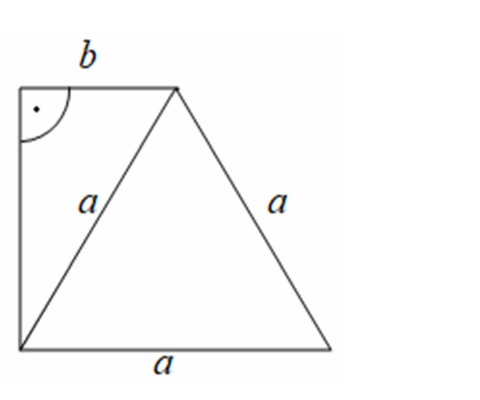
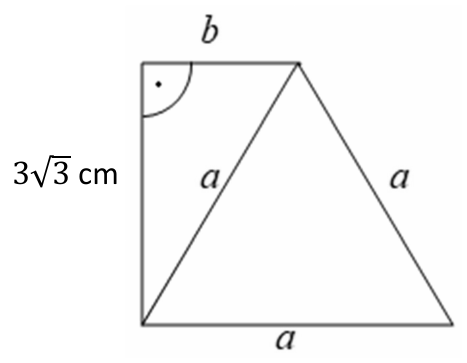
Fix the wojewodzki_2020_podlaskie_q1 crop and redraw it to SVG
The old crop box started too far right and cut off the `3√3 cm` label,
leaving a figure with no numeric data at all — the question could not be
answered from it. Re-cropped 1100 150 480 400 -> 978 175 467 363.

Reaching left far enough for `3√3` necessarily admits a tail of prompt
text, which shares its rows with the `b` label, so no rectangular crop
separates them; that corner is whitened in the PNG instead. This makes
the figure a crop *plus* an edit, the only one in the corpus — re-running
`figcrop.py crop --apply` on it re-renders from the PDF and silently
restores the text. locate() still takes the exact-match path (3.3e-03
against a 1e-2 cutoff).

Adds a redraw while here: match@4px 1.000, figangles clean.

figure-qa-carve.md carries the ten findings this came from, plus two
measuring notes: rawdict char bboxes are font boxes rather than ink and
cannot size a label, and long labels need one <text> per measured column
because Helvetica's advances do not track the scan's font.

diff --git a/figure-qa-carve.md b/figure-qa-carve.md
@@ -1,0 +1,161 @@
+# Figure QA from the carve pass (2026-08-02)
+
+Ten findings, produced as a by-product of the `categories.json` revision 2026-08-02 carve
+(commit `0c9f543`). 68 agents read 395 figure PNGs — 165 of which have an SVG redraw — to
+decide topic leaves for questions whose maths lives in the diagram. The PNG was authoritative
+throughout, so **none of these findings changed a tagging decision**; every one is free
+redraw QA that nobody went looking for.
+
+That provenance matters when triaging: these are not the output of `scripts/figcheck.py`, so
+there is no `match@4px` score behind them. They are things a reader noticed while trying to
+*solve* the question — which is why two of them sit on figures already signed off in
+`redraw-ok.jsonl`. A pixel scorer would not have caught a swapped label; a solver did.
+
+Hashes below open the question in the local browser via `browser/index.html#inc=<hash>`
+(the "Pokaż tylko id" filter). To see a redraw side by side, run
+`python3 scripts/figsheet.py <figure-name>` and open `debug/figure-subset-review.html`.
+
+Sign-off convention, per `FIGURE_REDRAW.md`: accepted redraws go to `redraw-ok.jsonl`,
+revision requests to `redraw-feedback.jsonl` (the review sheet's "copy JSON" button emits
+the box coordinates these findings lack). Nothing here has been written to either file.
+
+---
+
+## 1. Blocking — bad PNG crop, question unsolvable from its figure ✅ FIXED
+
+### `wojewodzki_2020_podlaskie_q1` — hash `fa181098`
+
+`wojewodzki_2020_podlaskie_q1_fig1.png`. An SVG redraw was **added** on top of the crop fix
+(`match@4px 1.000`, ink ratio 0.91, `figangles.py` clean) — see the end of this section.
+
+The crop cut off the `3√3 cm` label on the vertical left side, leaving a figure that carried
+no numeric data at all. The question could not be answered from the cropped image. Verified
+against `pdfs/wojewodzki/2020_podlaskie.pdf` p.2, where the label sits to the left of the
+trapezoid — the crop box simply started too far right.
+
+**Fixed** in two steps:
+
+1. `figcrop.py crop … 978 175 467 363 --apply`, was `1100 150 480 400`. The other three edges
+   were tightened at the same time (the old box had ~150px of dead space on the right).
+2. The new box necessarily dragged in an ~80px tail of prompt text (`va tego`) at top-left, so
+   that rectangle was **whitened in the PNG** (`im[0:62, 0:100] = 255`).
+
+Step 2 was needed because no rectangular crop can separate them. The ink bands on page 2:
+
+| band | y | x |
+|---|---|---|
+| `b` label | 189–218 | 1179–1196 |
+| prompt text `…podstawa tego` | 202–230 | ≤1072 |
+| `3√3 cm` label | 330–362 | **992**–1094 |
+
+Reaching left to x≈992 for `3√3` admits the prompt text, which occupies the same rows as the
+`b` label — so excluding it by cropping means losing `b`, which the question needs. In the
+figure's own coordinates the two are well separated (text y 30–55, label y 155–187), so the
+erase is safe and left the `3√3 cm` label untouched.
+
+⚠ **This figure is now a crop *plus* an edit, the only one in the corpus.** Consequences:
+
+- `locate()` still recovers the box exactly, but the squared-difference score went from
+  9.8e-08 (pixel-identical) to 3.3e-03. The exact-match path's cutoff is `mn < 1e-2`, so it
+  still takes that path with roughly 3× headroom — it has not fallen back to correlation.
+  A larger erase on some future figure could cross that line; `locate()` would then use the
+  `TM_CCOEFF_NORMED > 0.85` fallback rather than fail.
+- Re-running `figcrop.py crop … --apply` on this figure **re-renders from the PDF and silently
+  restores the prompt text**. If the box is ever adjusted again, redo the whiten.
+
+> Gotcha found while verifying this: `figcrop.py queue` does **not** re-locate. It reads a cached
+> `$FIGWORK/audit.tsv`, so after an `--apply` it will report the *old* box (and old w/h) until
+> `figcrop.py audit` is re-run. To check a fresh crop, call `locate()` directly.
+
+**Redraw** — `browser/figures/svg/wojewodzki_2020_podlaskie_q1_fig1.svg`, a right trapezoid with
+the diagonal `BL→TR`. Scores `match@4px 1.000`; the `.cmp.png` overlay is pure black (nothing
+missing, nothing invented). `figangles.py`: 0 FAIL. Geometry is least-squares fitted (rms 0.23px
+on both slants); the left side is genuinely ~2px off vertical in the scan and was kept that way
+per rule 2. The right-angle arc is vertex-centred — a free circle fit lands only 1.07 rms against
+1.58 constrained, nowhere near the 5–12px signature of a real off-centre arc.
+
+Two things learnt here that are not yet in `FIGURE_REDRAW.md`:
+
+- **`rawdict` char bboxes are font boxes, not ink** — every glyph in a span reports the same
+  ascender-to-descender height. Sizing a label off that height undershoots badly (it produced
+  `font-size` 17.5 where 31.6 was right). Fit against the *rendered ink* instead: emit the label
+  alone, rasterize it through the same MuPDF path `figcheck.py` uses, and measure. rawdict is
+  still trustworthy horizontally (advance widths are real), which is what the vinculum uses.
+- **Long labels drift.** `3√3 cm` is 102px wide in the scan and Helvetica's advances do not match
+  the original font across that span, so it was emitted as four `<text>` pieces each pinned to its
+  own measured column. Fitting the string as one element cannot land all of `3`, `√`, `3`, `cm`.
+
+The builder that did the measuring is throwaway and lives in the session scratchpad, not the repo —
+the SVG is the artefact. Re-deriving it needs only the fitted lines quoted in its docstring.
+
+---
+
+## 2. Redraw defects worth fixing
+
+### `wojewodzki_2019-2020_slaskie_q7` — hash `e99b5739`
+
+`wojewodzki_2019-2020_slaskie_q7_fig1.svg`. **Labels swapped.** The SVG puts `x` on the
+bottom-right vertex arc — where the PNG has `α` — and `α` under the bottom side, where the PNG
+has the side label `x`. So the redraw asks for a different quantity than the scan does. This is
+the most serious of the redraw findings: it is wrong, not merely incomplete.
+
+### `rejonowy_2023-2024_wielkopolskie_q13` — hash `5dbcfad4` — ⚠ already in `redraw-ok.jsonl`
+
+The redraw labels the shaded angle at Q with a capital `X`; the PNG scan and the prompt text
+both use lowercase `x`. Geometry, vertex labels and all four angle arcs (α at P, β at R, γ at T,
+δ at S) match. Minor, but it slipped through sign-off.
+
+### `szkolny_2024-2025_pomorskie_q8` — hash `85d37aeb`
+
+`szkolny_2024-2025_pomorskie_q8_fig1`. The SVG carries the `α` text label but **no arc**: the PNG
+draws a large arc marking α at the `a ∩ b` intersection, sweeping from ray b up-left round to ray
+a down. Only the right-angle arc-and-dot was redrawn. Without the arc it is ambiguous which of
+the four angles at the intersection is meant.
+
+### `wojewodzki_2017_podkarpackie_q10` — hash `6071a9ce` — already in `redraw-feedback.jsonl`
+
+Geometry agrees (E inside the square, joined to all four corners), but the PNG appears to carry a
+small angle mark at E for the asked angle DEC, which the redraw omits. Already queued for
+revision on other grounds — fold this in rather than filing it separately.
+
+### `szkolny_2016-2017_malopolskie_q2` — hash `9641f50d`
+
+The 134° wedge at B is drawn as a bare arc, while the PNG shades all three wedges light grey
+(the 34° and `?` wedges *are* filled in the SVG, so this is an inconsistency within the redraw
+itself). All values and the geometry agree.
+
+---
+
+## 3. Cosmetic — no effect on solving
+
+### `rejonowy_2020-2021_malopolskie_q17` — hash `144a7c3a` — ⚠ already in `redraw-ok.jsonl`
+
+The SVG omits the vertex dot on side DC — that apex is point G in the official solution — and the
+right-hand rhombus vertex dot. The geometry itself matches.
+
+### `rejonowy_2021-2022_wielkopolskie_q14` — hash `76610257`
+
+The scan runs diagonal AC a short way past C to the upper right; the redraw stops the line at C.
+It does keep the matching BD extension past D, so the asymmetry looks accidental. All three
+marked angles (40° at A between AD and AC, 35° at C between CD and CA, 25° at B between BA and BD)
+and the grey exterior sector at D match, so the answer 100 is unaffected.
+
+### `szkolny_2024-2025_malopolskie_q7` — hash `241c6b6a`
+
+The redraw strokes both rhombi in `#000`; the PNG — and the sibling `q6` redraw — use mid-grey
+`#8a8a8a`. All labels, the `3x+2` / `7−x` / `x+1` values and the shaded overlap JFKD match.
+
+---
+
+## 4. Not a conflict — noted for judgement
+
+### `wojewodzki_2025-2026_wielkopolskie_q15` — hash `929ed70c`
+
+No PNG/SVG disagreement. The "equilateral" triangle is drawn with unequal sides (AB 356px,
+CA 341px, BC 339px), so the two circles — which must both have radius = side/2 — come out at
+178 vs 169.65. **The scan has the same distortion**, so the redraw faithfully copied it rather
+than idealising it.
+
+Worth a decision rather than a fix: does a redraw reproduce the scan's sloppiness, or correct it?
+`FIGURE_REDRAW.md` does not say. Whatever is decided here should probably become a rule there,
+since this cannot be the only distorted original.
